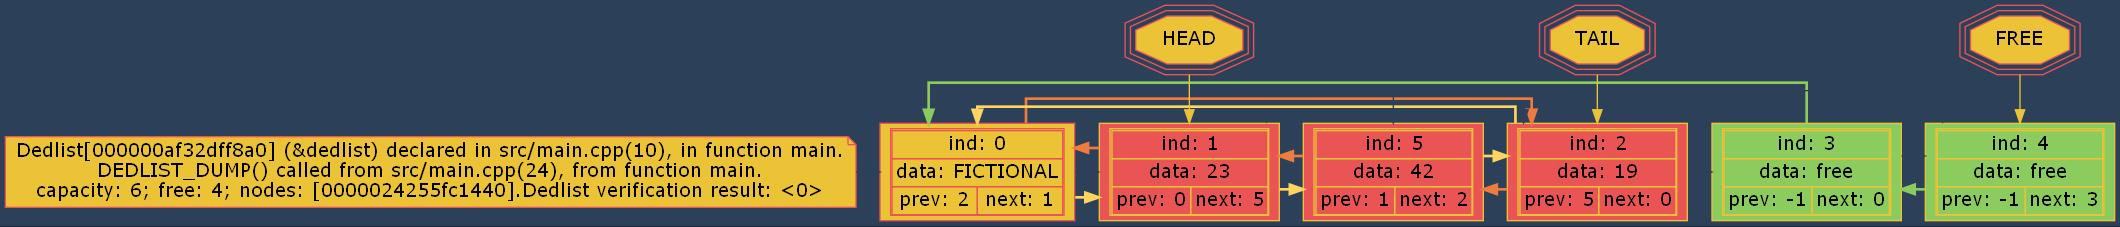
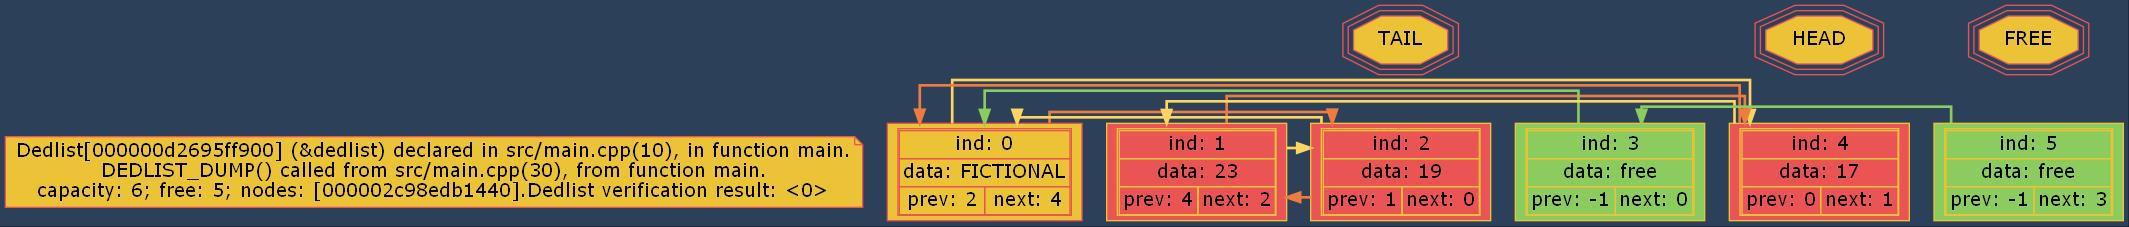
написана функция удаления

Changed region(s): [[0.0, 0.0, 1.0, 0.9868], [0.934, 0.5859, 0.9651, 0.6784]]

diff --git a/src/dedlist.cpp b/src/dedlist.cpp
@@ -29,14 +29,7 @@ DedlistStatusCode dedlist_insert(   Dedlist *dedlist_ptr,
 
     if (dedlist_ptr->free == 0)
     {
-        //DL_WRP( dedlist_realloc_up_(dedlist_ptr) );
-
-        {
-            DedlistStatusCode code = dedlist_realloc_up_(dedlist_ptr);
-            if (code != DEDLIST_STATUS_OK)
-                return code;
-        };
-
+        DL_WRP( dedlist_realloc_up_(dedlist_ptr) );
     }
 
     ptrdiff_t new_elem_ind = dedlist_ptr->free;
@@ -54,6 +47,22 @@ DedlistStatusCode dedlist_insert(   Dedlist *dedlist_ptr,
     dedlist_ptr->nodes[new_elem_ind].prev = anchor;
 
     *inserted_elem_anchor_ptr = (size_t) new_elem_ind;
+
+    return DEDLIST_STATUS_OK;
+}
+
+DedlistStatusCode dedlist_delete(   Dedlist *dedlist_ptr,
+                                    size_t anchor )
+{
+    DEDLIST_SELFCHECK(dedlist_ptr);
+
+    ptrdiff_t saved_prev = dedlist_ptr->nodes[anchor].prev;
+    ptrdiff_t saved_next = dedlist_ptr->nodes[anchor].next;
+
+    init_free_elem_(dedlist_ptr, anchor);
+
+    dedlist_ptr->nodes[saved_prev].next = saved_next;
+    dedlist_ptr->nodes[saved_next].prev = saved_prev;
 
     return DEDLIST_STATUS_OK;
 }
@@ -91,7 +100,7 @@ void dedlist_print_status_code_message( DedlistStatusCode code, FILE *stream)
     fprintf(stream, "%s", dedlist_status_code_messages[code]);
 }
 
-void inline init_zeroth_elem_( Dedlist *dedlist_ptr )
+void init_zeroth_elem_( Dedlist *dedlist_ptr )
 {
     assert(dedlist_ptr);
 
@@ -100,7 +109,7 @@ void inline init_zeroth_elem_( Dedlist *dedlist_ptr )
     dedlist_ptr->nodes[0].prev = 0;
 }
 
-void inline init_free_elem_( Dedlist *dedlist_ptr, ptrdiff_t free_elem_ind )
+void init_free_elem_( Dedlist *dedlist_ptr, ptrdiff_t free_elem_ind )
 {
     assert(dedlist_ptr);
 
@@ -111,7 +120,7 @@ void inline init_free_elem_( Dedlist *dedlist_ptr, ptrdiff_t free_elem_ind )
     dedlist_ptr->free = free_elem_ind;
 }
 
-void inline init_new_free_elems_( Dedlist *dedlist_ptr, ptrdiff_t start_with )
+void init_new_free_elems_( Dedlist *dedlist_ptr, ptrdiff_t start_with )
 {
     assert( dedlist_ptr );
 
@@ -386,19 +395,19 @@ inline DedlistStatusCode write_dot_file_for_dump_(  FILE *dot_file,
     }
     fprintf(dot_file,   "}\n");
 
-    fprintf(dot_file,   "NODE_TEXT->NODE_0[weight=10, color=\"" COLOR_BG "\"];\n");
+    fprintf(dot_file,   "NODE_TEXT->NODE_0[weight=10, style=invis];\n");
     for (size_t ind = 0; ind < dedlist_ptr->capacity - 1; ind++)
     {
-        fprintf(dot_file,   "NODE_%lld->NODE_%lld[weight=10, color=\"" COLOR_BG "\"];\n",
+        fprintf(dot_file,   "NODE_%lld->NODE_%lld[weight=10, style=invis];\n",
                             ind, ind+1);
     }
     //---------------------------------------------------------------------
 
 
     //----------------------------SPECIAL_LABELS_EDGES---------------------
-    fprintf(dot_file,   "HEAD->NODE_%td[color=\"#ECC237\"];\n"
-                        "TAIL->NODE_%td[color=\"#ECC237\"];\n"
-                        "FREE->NODE_%td[color=\"#ECC237\"];\n\n\n",
+    fprintf(dot_file,   "HEAD->NODE_%td[style=invis];\n"
+                        "TAIL->NODE_%td[style=invis];\n"
+                        "FREE->NODE_%td[style=invis];\n\n\n",
                         dedlist_get_head_ind(dedlist_ptr),
                         dedlist_get_tail_ind(dedlist_ptr),
                         dedlist_ptr->free );

diff --git a/src/dedlist.h b/src/dedlist.h
@@ -176,6 +176,9 @@ DedlistStatusCode dedlist_insert(   Dedlist *dedlist_ptr,
                                     Elem_t value,
                                     size_t* inserted_elem_anchor_ptr);
 
+DedlistStatusCode dedlist_delete(   Dedlist *dedlist_ptr,
+                                    size_t anchor );
+
 DedlistStatusCode dedlist_push_head(    Dedlist *dedlist_ptr,
                                         Elem_t value,
                                         size_t* inserted_elem_anchor_ptr );
@@ -187,6 +190,12 @@ DedlistStatusCode dedlist_push_tail(    Dedlist *dedlist_ptr,
 DedlistStatusCode dedlist_realloc_up_( Dedlist *dedlist_ptr );
 
 void dedlist_print_status_code_message( DedlistStatusCode code, FILE *stream);
+
+void init_zeroth_elem_( Dedlist *dedlist_ptr );
+
+void init_free_elem_( Dedlist *dedlist_ptr, ptrdiff_t free_elem_ind );
+
+void init_new_free_elems_( Dedlist *dedlist_ptr, ptrdiff_t start_with );
 
 void dedlist_print_verify_res_(FILE *stream, int verify_res);
 

diff --git a/src/main.cpp b/src/main.cpp
@@ -21,6 +21,12 @@ int main()
     dedlist_insert(&dedlist, x_anchor_2, 42, &x_anchor_3);
     printf("x_anchor_3 : <%lld>\n", x_anchor_3);
 
+    size_t x_anchor_4 = -1;
+    dedlist_push_head(&dedlist, 17, &x_anchor_4);
+    printf("x_anchor_4 : <%lld>\n", x_anchor_4);
+
+    dedlist_delete(&dedlist, x_anchor_3);
+
     DEDLIST_DUMP(&dedlist, 0);
 
     dedlist_dtor(&dedlist);
